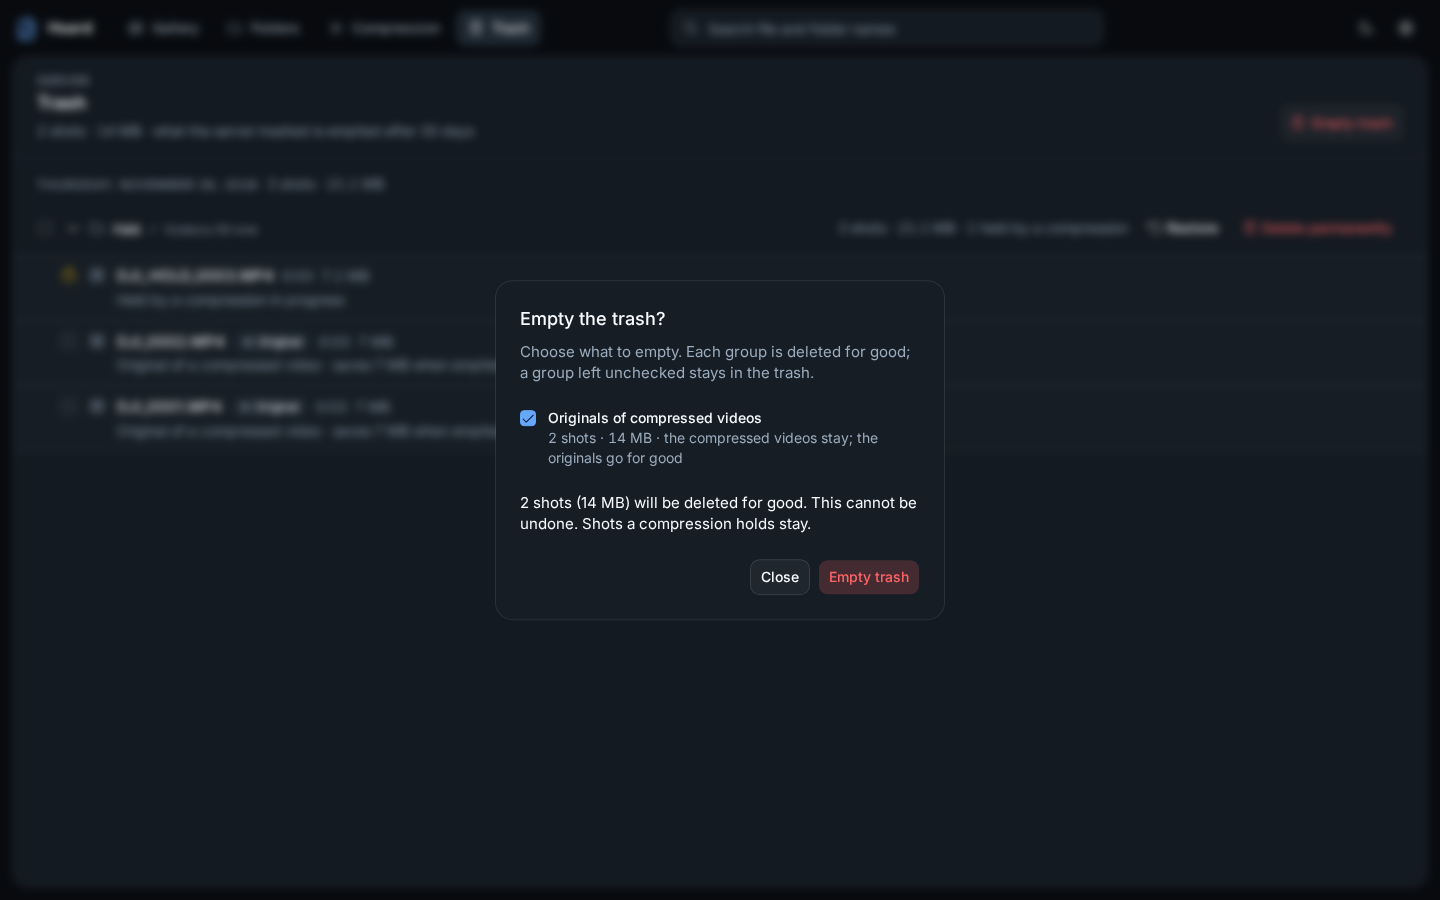
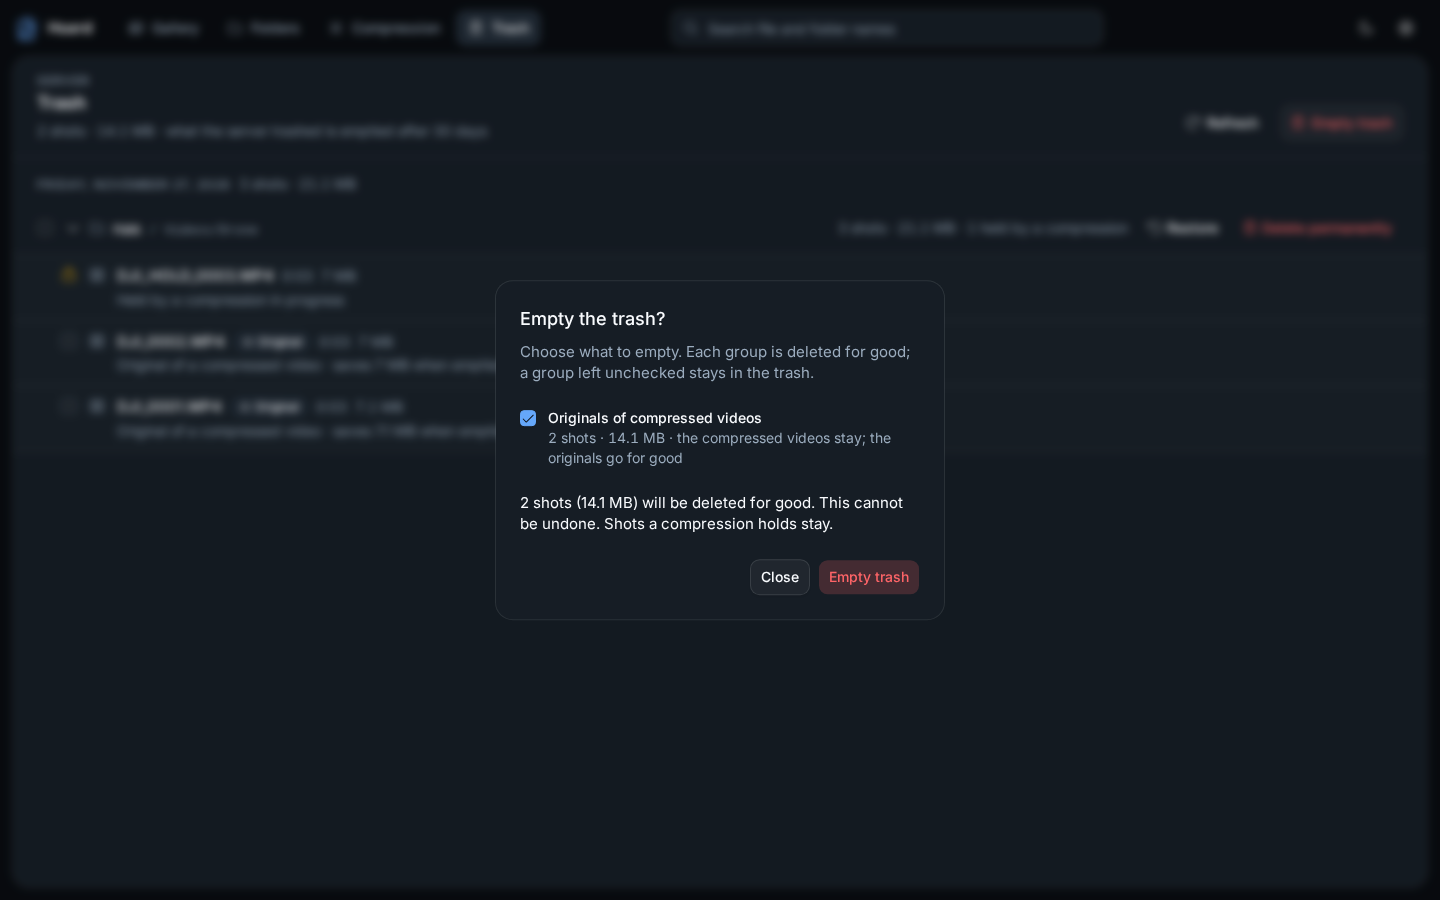
hoard-server 0.15.0: feature list tests include trash-actions; trash screenshots regenerated (Refresh, Retry the failed ones)

diff --git a/server/internal/server/items_api_test.go b/server/internal/server/items_api_test.go
@@ -175,7 +175,7 @@ func TestItemsFeedQueryAndLookup(t *testing.T) {
 	if c := decode(t, hs.do("GET", "/v1/health", nil))["counts"].(map[string]any); c["items"] != float64(13) {
 		t.Fatalf("health %v", c)
 	}
-	if f := decode(t, hs.do("GET", "/v1/server", nil, bearer(key)))["features"].([]any); len(f) != 6 || f[0] != "items" || f[1] != "items-by-path" || f[2] != "culling" || f[3] != "device-identity" || f[4] != "trash" || f[5] != "backup" {
+	if f := decode(t, hs.do("GET", "/v1/server", nil, bearer(key)))["features"].([]any); len(f) != 7 || f[0] != "items" || f[1] != "items-by-path" || f[2] != "culling" || f[3] != "device-identity" || f[4] != "trash" || f[5] != "backup" || f[6] != "trash-actions" {
 		t.Fatalf("features %v", f)
 	}
 

diff --git a/server/internal/server/previews_api_test.go b/server/internal/server/previews_api_test.go
@@ -219,7 +219,7 @@ func TestPreviewLifecycle(t *testing.T) {
 
 	// The server announces the feature.
 	f := decode(t, hs.do("GET", "/v1/server", nil, bearer(key)))["features"].([]any)
-	if len(f) != 8 || f[0] != "items" || f[1] != "items-by-path" || f[2] != "previews" || f[3] != "culling" || f[4] != "device-identity" || f[5] != "edits" || f[6] != "trash" || f[7] != "backup" {
+	if len(f) != 9 || f[0] != "items" || f[1] != "items-by-path" || f[2] != "previews" || f[3] != "culling" || f[4] != "device-identity" || f[5] != "edits" || f[6] != "trash" || f[7] != "backup" || f[8] != "trash-actions" {
 		t.Fatalf("features %v", f)
 	}
 }
